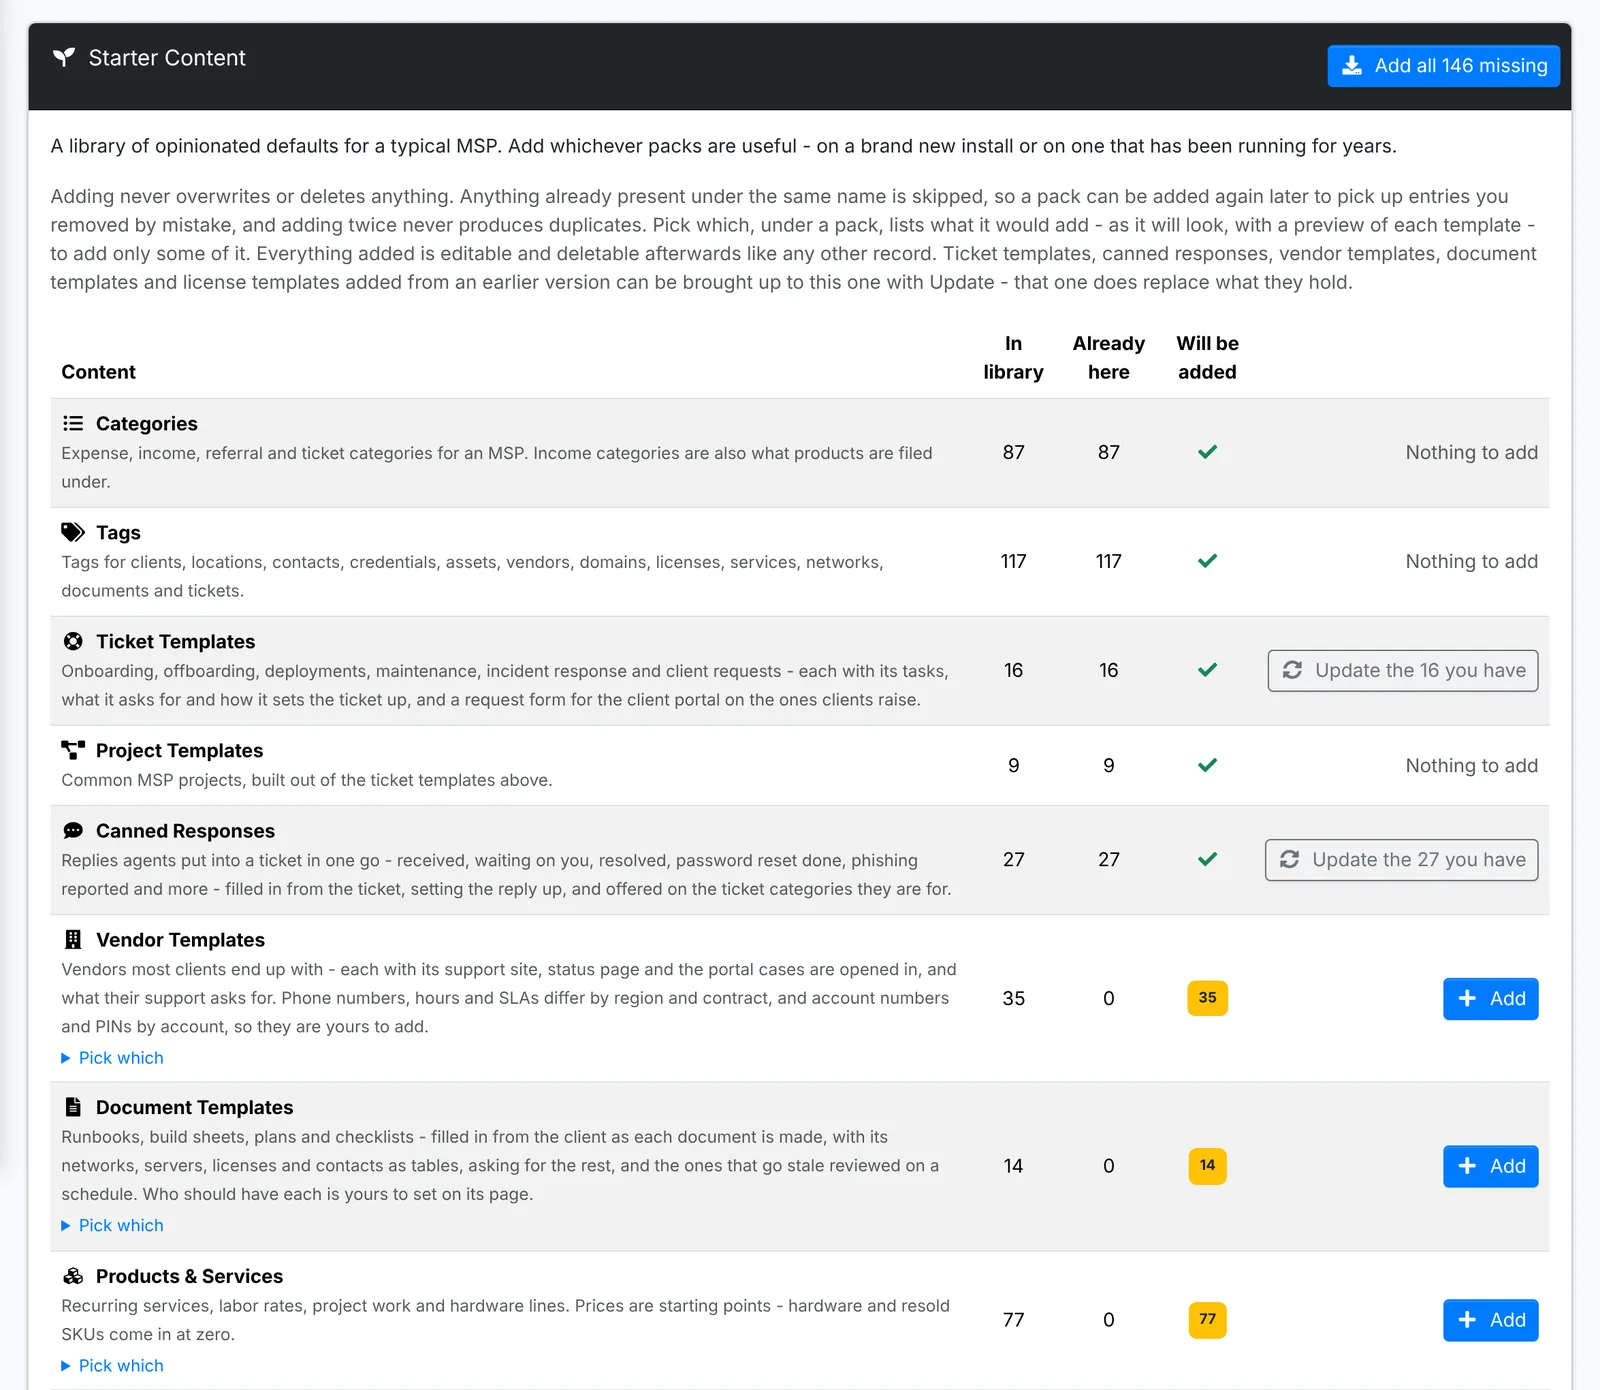
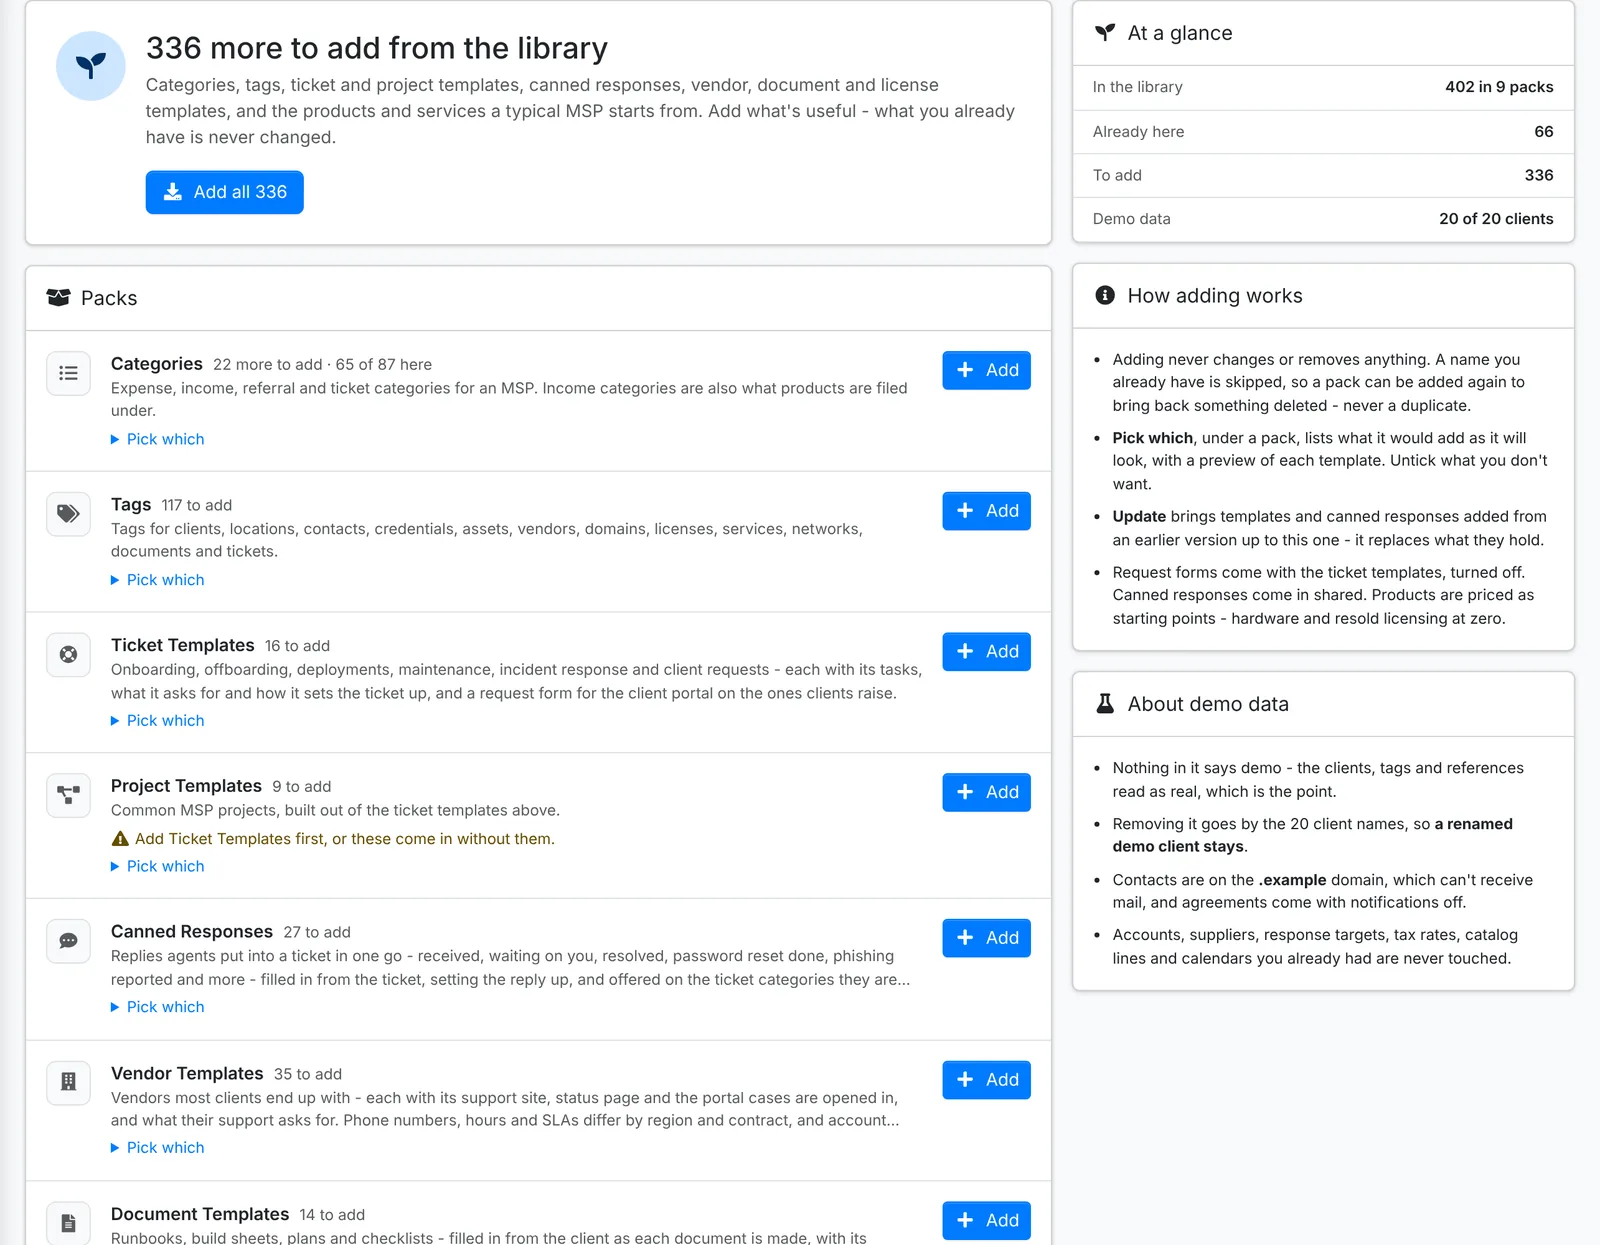
Docs: Starter Content's new layout, the count beside each pack, and Update and Remove demo data asking first, with new screenshots

diff --git a/content/admin/maintenance.md b/content/admin/maintenance.md
@@ -188,11 +188,11 @@ An ITFlow [managed by another](/admin/managed-instances#managed-by) is updated f
 
 **Admin > Starter Content** is a library of defaults for a typical MSP: categories, tags, ticket and project templates, canned responses, vendor templates, document templates, products and services, and license templates. Add whichever packs are useful - on a new install, or one that's been running for years.
 
-![Starter content](adm-starter.webp "Starter content: libraries of templates, categories and products, with what's already here")
+![Starter content](adm-starter.webp "Starter content: how much there is to add, each pack with its Add, and the totals at a glance")
 
-Each pack shows how many are in the library, how many you already have, and how many **Add** would bring in. **Add all** at the top adds every pack at once.
+The top of the page says how much of the library you don't have yet, and **Add all** adds all of it at once. Each pack under it says how many it would add and how many of it you already have, with its own **Add**. **At a glance**, at the side, has the totals.
 
-Adding never overwrites or deletes anything: what you already have under the same name is skipped, so adding twice never makes duplicates. When a newer version of ITFlow brings improved templates, **Update the ones you have** brings yours up to date.
+Adding never overwrites or deletes anything: what you already have under the same name is skipped, so adding twice never makes duplicates. When a newer version of ITFlow brings improved templates, **Update**, beside a pack you have some of, brings yours up to date - it asks first, as it replaces what they hold.
 
 ### Pick which {#pick-which}
 
@@ -200,7 +200,7 @@ To add only some of a pack, open **Pick which** under it. It lists what the pack
 
 ![Pick which, open on Products & Services](adm-starter-pick.webp "Pick which: what a pack would add, as it will look - untick what you don't want")
 
-Everything is ticked to start with. Untick what you don't want, or use **All** and **None**. The count under **Will be added** follows - "75 of 77" - and **Add** adds only the ones ticked.
+Everything is ticked to start with. Untick what you don't want, or use **All** and **None**. The count beside the pack's name follows - "74 of 76 to add" - and **Add** adds only the ones ticked.
 
 **Preview** shows a template in full before you add it - a ticket template's subject, category, tags, what it says and what it asks for; a document template's fill-ins and the document itself; a product's price and how it's billed.
 
@@ -210,7 +210,7 @@ The [Starter content step](/install/after-install#starter-content) of Get starte
 
 Request forms come with the ticket templates, turned off - turn each on in its template's **Client portal** card. Products come priced as starting points: hardware and resold licensing at zero, because they're quoted per deal.
 
-**Demo Data** removes the sample clients and records from a demo install, ready for your own.
+**Demo data**, under the packs, adds the sample clients and records for a demo or training install, and **Remove demo data** takes them out again in one go when you're ready for your own - it asks first, as it can't be undone.
 
 ## Debug
 
